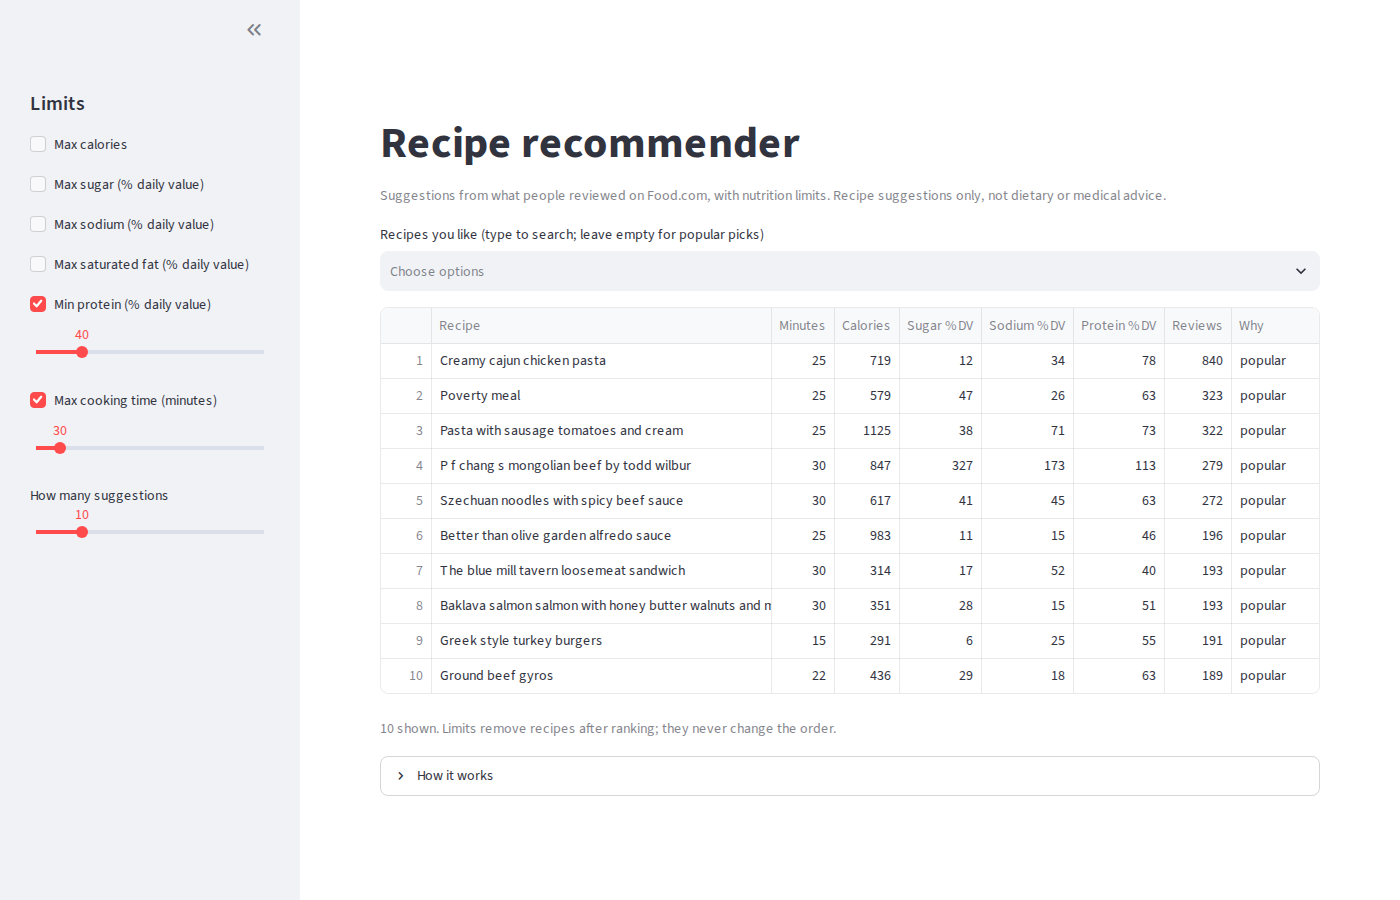
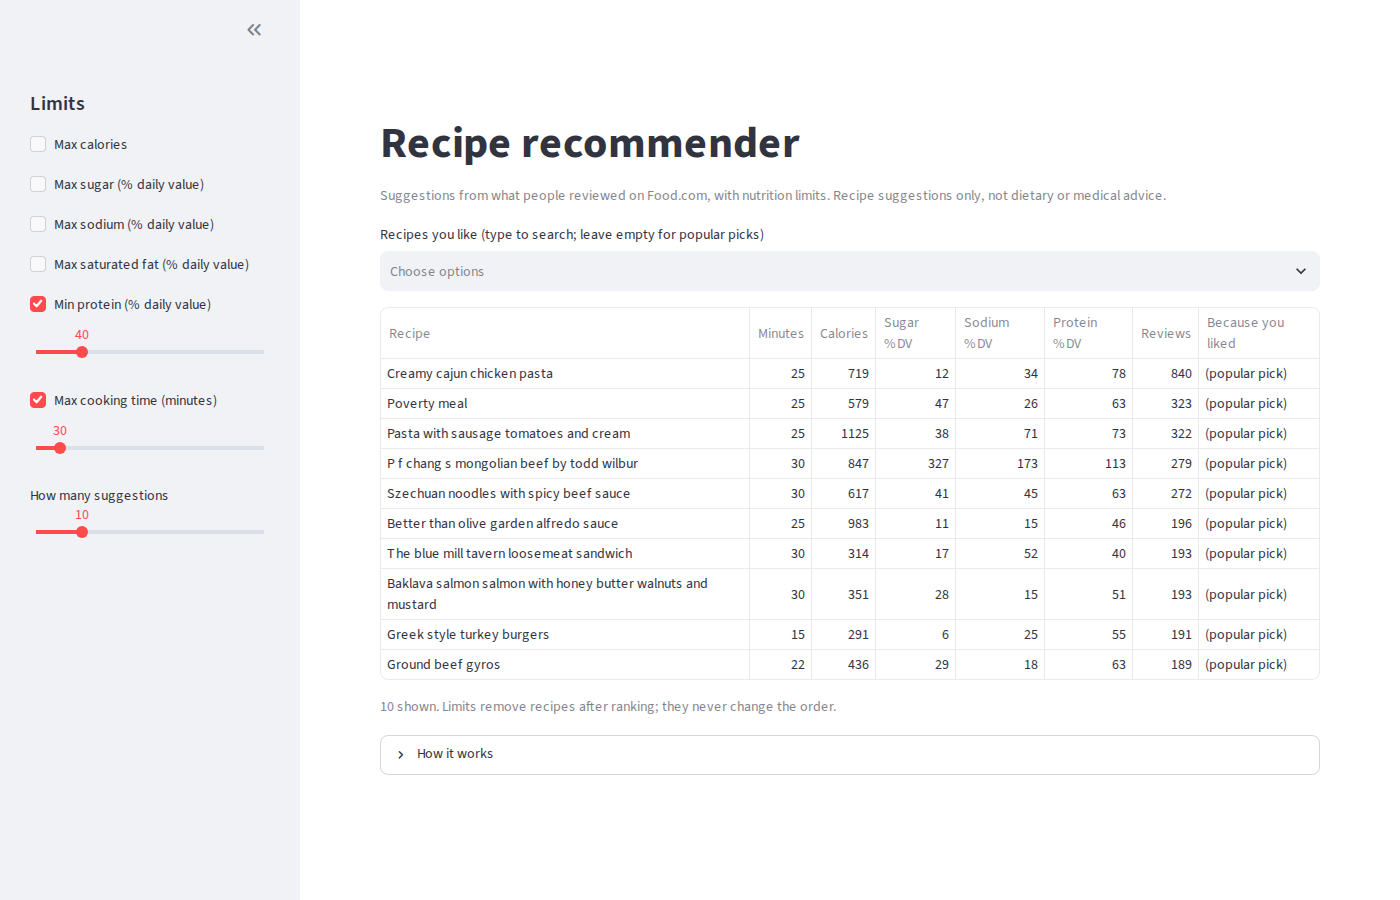
feat(recommend): explain each suggestion by the pick behind it
A kNN suggestion's score is a sum of similarities to the picks, so the
largest term is its main reason. Each suggestion now names that pick and
its share of the score (+N when other picks contributed), so near-even
splits are shown rather than hidden. The demo uses a wrapping table and
new screenshots; the README describes it.

diff --git a/reciperec/recommend.py b/reciperec/recommend.py
@@ -33,6 +33,11 @@ from reciperec.split import to_csr
 TUNING = Path(__file__).resolve().parent.parent / "runs" / "tuning-foodcom-5core-itemknn.json"
 
 
+def tidy(name: str) -> str:
+    """Food.com names have stray spaces and are lower case."""
+    return " ".join(str(name).split()).capitalize()
+
+
 def cold_start_scores(sim: sp.csr_matrix, popularity: np.ndarray, liked: np.ndarray) -> np.ndarray:
     """Similarity to the liked items, popularity as a tie-break; liked items excluded."""
     pop = popularity / max(popularity.max(), 1)
@@ -45,6 +50,28 @@ def cold_start_scores(sim: sp.csr_matrix, popularity: np.ndarray, liked: np.ndar
         scores = scores + (picks @ sim).toarray().ravel()
         scores[liked] = -np.inf
     return scores
+
+
+def explain_picks(
+    sim: sp.csr_matrix, liked: np.ndarray, top: np.ndarray
+) -> tuple[np.ndarray, np.ndarray, np.ndarray]:
+    """Why each recommended item scored: its main pick, that pick's share of the score, and
+    how many other picks contributed.
+
+    A recommendation's kNN score is the sum of sim[pick, item] over the picks, so the largest
+    term is the main reason and its share says how dominant it is. On Food.com similarities
+    are small and close, so a share near 50% is common and is shown rather than hidden.
+    Returns main -1 where no pick contributed (a popularity fill).
+    """
+    n = len(top)
+    if not len(liked) or not n:
+        return np.full(n, -1), np.zeros(n), np.zeros(n, dtype=int)
+    parts = sim[liked][:, top].toarray()  # picks x recommendations
+    total = parts.sum(axis=0)
+    main = np.where(total > 0, liked[parts.argmax(axis=0)], -1)
+    share = np.divide(parts.max(axis=0), total, out=np.zeros(n), where=total > 0)
+    others = np.maximum((parts > 0).sum(axis=0) - 1, 0)
+    return main, share, others
 
 
 class RecipeRecommender:
@@ -75,8 +102,14 @@ class RecipeRecommender:
         top = top[np.isfinite(scores[top]) & allowed[top]]  # fewer than k may pass the limits
         out = self.recipes.iloc[top].copy()
         out["score"] = scores[top]
-        out["why"] = "similar to your picks" if known else "popular"
-        out.loc[out["score"] < 1e-5, "why"] = "popular"
+        main, share, others = explain_picks(self.knn.sim, liked_idx, top)
+        out["why"] = [
+            "popular"
+            if m < 0
+            else f"because you liked {tidy(self.recipes['name'].iloc[m])}"
+            + (f" ({sh:.0%}, +{o} more)" if o else "")
+            for m, sh, o in zip(main, share, others)
+        ]
         return out, [r for r in liked if r not in known]
 
 

diff --git a/app.py b/app.py
@@ -16,7 +16,7 @@ import pandas as pd
 import streamlit as st
 
 from reciperec.nutrition import Limits
-from reciperec.recommend import RecipeRecommender
+from reciperec.recommend import RecipeRecommender, tidy
 
 RUNS = Path(__file__).resolve().parent / "runs"
 LIMITS = {
@@ -35,7 +35,7 @@ COLUMNS = {
     "sodium_pdv": "Sodium %DV",
     "protein_pdv": "Protein %DV",
     "reviews": "Reviews",
-    "why": "Why",
+    "why": "Because you liked",
 }
 
 st.set_page_config(page_title="Recipe recommender", page_icon="🍲", layout="wide")
@@ -44,10 +44,6 @@ st.set_page_config(page_title="Recipe recommender", page_icon="🍲", layout="wi
 @st.cache_resource(show_spinner="Loading Food.com and building the recipe model (about 30 s)...")
 def load_model() -> RecipeRecommender:
     return RecipeRecommender()
-
-
-def tidy(name: str) -> str:
-    return " ".join(str(name).split()).capitalize()
 
 
 def query_floats(key: str) -> float | None:
@@ -103,20 +99,21 @@ if out.empty:
 else:
     shown = out[list(COLUMNS)].rename(columns=COLUMNS)
     shown["Recipe"] = shown["Recipe"].map(tidy)
-    shown["Why"] = shown["Why"].map({"similar to your picks": "your picks"}).fillna(shown["Why"])
-    shown.index = pd.RangeIndex(1, len(shown) + 1)
-    st.dataframe(
-        shown,
-        use_container_width=True,
-        column_config={
-            "Recipe": st.column_config.TextColumn(width=340),
-            "Why": st.column_config.TextColumn(width=90),
-            **{
-                c: st.column_config.NumberColumn(format="%.0f")
-                for c in ("Calories", "Sugar %DV", "Sodium %DV", "Protein %DV")
-            },
-        },
+    shown["Because you liked"] = (
+        shown["Because you liked"]
+        .str.replace("because you liked ", "", regex=False)
+        .str.replace(" more)", ")", regex=False)
+        .replace("popular", "(popular pick)")
     )
+    shown.index = pd.RangeIndex(1, len(shown) + 1)
+    for c in ("Calories", "Sugar %DV", "Sodium %DV", "Protein %DV"):
+        shown[c] = shown[c].round().astype(int)
+    st.table(shown)  # a plain table wraps long text instead of cutting it off
+    if picked:
+        st.caption(
+            "Because you liked: the pick that contributed most to each suggestion, with its share "
+            "of the score; +1 means another pick contributed too."
+        )
     if limit_values:
         st.caption(
             f"{len(out)} shown. Limits remove recipes after ranking; they never change the order."

diff --git a/tests/test_recommend.py b/tests/test_recommend.py
@@ -1,4 +1,5 @@
 import numpy as np
+import pytest
 import scipy.sparse as sp
 
 from reciperec.recommend import cold_start_scores
@@ -21,3 +22,34 @@ def test_picks_drive_the_ranking_and_are_excluded():
 def test_no_picks_means_popularity():
     scores = cold_start_scores(SIM, POP, np.array([], dtype=int))
     assert np.argsort(-scores).tolist() == [3, 0, 2, 1]
+
+
+def test_explain_picks_names_the_main_contributor():
+    from reciperec.recommend import explain_picks
+
+    # Picks 0 and 2. Item 1 owes most to pick 0; item 3 only to pick 2; item 4 to nobody.
+    sim = sp.csr_matrix(
+        np.array(
+            [
+                [0, 0.9, 0, 0.0, 0],
+                [0, 0, 0, 0, 0],
+                [0, 0.2, 0, 0.5, 0],
+                [0, 0, 0, 0, 0],
+                [0, 0, 0, 0, 0],
+            ],
+            dtype=np.float32,
+        )
+    )
+    main, share, others = explain_picks(sim, np.array([0, 2]), np.array([1, 3, 4]))
+    assert main.tolist() == [0, 2, -1]
+    assert share[0] == pytest.approx(0.9 / 1.1)
+    assert share[1] == pytest.approx(1.0)
+    assert others.tolist() == [1, 0, 0]
+
+
+def test_explain_picks_without_picks():
+    from reciperec.recommend import explain_picks
+
+    main, _, others = explain_picks(SIM, np.array([], dtype=int), np.array([1, 2]))
+    assert main.tolist() == [-1, -1]
+    assert others.tolist() == [0, 0]

diff --git a/README.md b/README.md
@@ -6,7 +6,7 @@ are compared under a time-based split, full-catalogue ranking and bootstrap conf
 
 **Recipe suggestions only, not dietary or medical advice.**
 
-![Demo: two banana breads picked, under 400 calories](docs/img/demo-picks.png)
+![Demo: banana bread and a cajun chicken pasta picked, under 600 calories; each suggestion names the pick behind it](docs/img/demo-picks.png)
 
 ## Results
 
@@ -65,7 +65,7 @@ Command-line suggestions without the demo:
 
 ```bash
 uv run python -m reciperec.recommend --search "banana bread"
-uv run python -m reciperec.recommend --like 25885 2886 --max-calories 400
+uv run python -m reciperec.recommend --like 25885 39087 --max-calories 600
 uv run python -m reciperec.recommend --min-protein-pdv 40 --max-minutes 30   # no picks: popular
 ```
 
@@ -121,7 +121,9 @@ Screenshots show a handful of recipe names and nutrition values for illustration
 **Nutrition limits** (`reciperec/nutrition.py`) remove recipes after ranking, so they never change
 the order of what is left. **Cold start** (`reciperec/recommend.py`): a new visitor picks a few
 recipes and item-kNN scores everything by similarity to them, with no retraining; with no picks
-they get popular recipes within their limits.
+they get popular recipes within their limits. **Explanations:** each suggestion names the pick
+that contributed most to its score and that pick's share, so a near even split is shown, not
+hidden.
 
 ## Limitations
 
